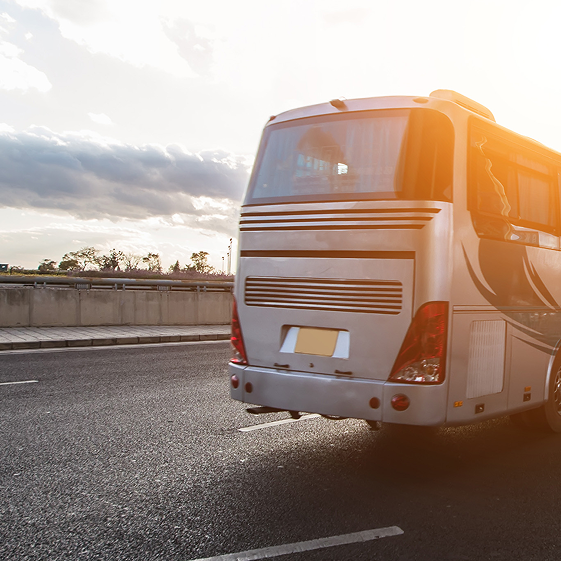
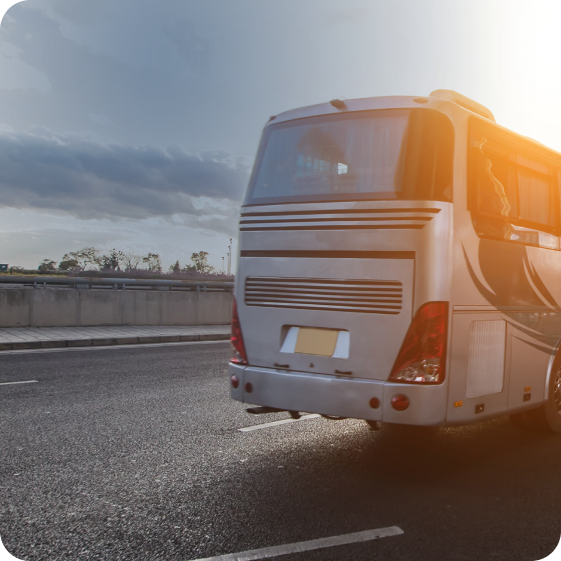
tarif1

diff --git a/src/pages/landing/ui/tarif/Tarif.tsx b/src/pages/landing/ui/tarif/Tarif.tsx
@@ -38,16 +38,13 @@ export function Tarif() {
     },
   ];
 
+  // 2. Выходной күн үчүн маалыматтар
   const weekendData = [
     {
       name: "Комплект (горные лыжи, сноуборд, ботинки, палки)",
       category: [
         { age: "Дети до 14 лет", prices: ["400", "450", "500", "550", "600"] },
         { age: "Взрослые", prices: ["700", "800", "900", "1000", "1200"] },
-        { 
-          age: "Вечерний блок, суббота: прокат + подъемник с 17.00 и 18.00 до 21.00", 
-          prices: ["•", "•", "1500", "1800", "•"] 
-        },
       ],
       isSpecial: false,
     },
@@ -75,10 +72,6 @@ export function Tarif() {
       category: [
         { age: "Дети до 14 лет", prices: ["500", "600", "700", "800", "900"] },
         { age: "Взрослые", prices: ["900", "1000", "1200", "1300", "1500"] },
-        { 
-          age: "Вечерний блок, суббота: прокат + подъемник с 17.00 и 18.00 до 21.00", 
-          prices: ["•", "•", "1700", "2000", "•"] 
-        },
       ],
       isSpecial: false,
     },
@@ -132,23 +125,27 @@ export function Tarif() {
               {item.category.map((cat, catIdx) => (
                 <tr 
                   key={`${idx}-${catIdx}`}
-                  className={`${item.isSpecial ? 'bg-[#89CFF0]' : (catIdx % 2 === 0 ? 'bg-[#F8F9FA]' : 'bg-white')} transition-colors border-b border-white`}
+                  className={`
+                    ${item.isSpecial ? 'bg-[#89CFF0]' : (idx % 2 === 0 ? 'bg-[#F8F9FA]' : 'bg-white')} 
+                    transition-colors 
+                    ${catIdx === item.category.length - 1 ? 'border-b border-white' : ''}
+                  `}
                 >
-                  <td className="p-4 align-middle">
-                    {catIdx === 0 && (
+                  {catIdx === 0 && (
+                    <td className="p-4 align-middle" rowSpan={item.category.length}>
                       <div className="flex items-center gap-4">
                         <div className={`w-12 h-12 rounded-full flex-shrink-0 ${item.isSpecial ? 'bg-white' : 'bg-[#ADD8E6]'}`}></div>
                         <span className={`text-[14px] font-bold leading-tight ${item.isSpecial ? 'text-gray-900' : 'text-gray-700'}`}>
                           {item.name}
                         </span>
                       </div>
-                    )}
-                  </td>
-                  <td className={`p-4 text-[13px] font-semibold leading-tight ${item.isSpecial ? 'text-gray-900' : 'text-gray-600'}`}>
+                    </td>
+                  )}
+                  <td className={`px-4 py-2 text-[13px] font-semibold align-middle ${item.isSpecial ? 'text-gray-900' : 'text-gray-600'}`}>
                     {cat.age}
                   </td>
                   {cat.prices.map((price, pIdx) => (
-                    <td key={pIdx} className={`p-4 text-center text-[16px] font-bold ${item.isSpecial ? 'text-gray-900' : 'text-gray-700'}`}>
+                    <td key={pIdx} className={`px-4 py-2 text-center text-[16px] font-bold align-middle ${item.isSpecial ? 'text-gray-900' : 'text-gray-700'}`}>
                       {price}
                     </td>
                   ))}
@@ -169,7 +166,7 @@ export function Tarif() {
 
       <div className="mb-12">
         <h1 className="text-[#009EE3] text-6xl font-black mb-10 italic uppercase tracking-tighter text-left">
-          Сезон 2022/2023
+          Сезон 2025/2026
         </h1>
         <div className="text-center space-y-3 mb-12">
           <p className="text-[#009EE3] text-[22px] font-bold">
@@ -181,7 +178,8 @@ export function Tarif() {
         </div>
       </div>
 
-      <h2 className="text-[#009EE3] text-3xl font-black mb-8 uppercase italic text-left">Стоимость проката в будний день</h2>
+      {/* Таблицалар */}
+      <h2 className="text-[#009EE3] text-[28px] font-extrabold mb-6 uppercase tracking-tight text-left">СТОИМОСТЬ ПРОКАТА В БУДНИЙ ДЕНЬ</h2>
       {renderTable(weekdayData)}
 
       <h2 className="text-[#009EE3] text-3xl font-black mb-8 uppercase italic text-left">Стоимость проката в выходной день</h2>
@@ -190,89 +188,113 @@ export function Tarif() {
       <h2 className="text-[#009EE3] text-3xl font-black mb-8 uppercase italic text-left">Стоимость проката в праздничные дни</h2>
       {renderTable(holidayData)}
 
-      <h2 className="text-[#009EE3] text-3xl font-black mb-8 uppercase italic text-left">Стоимость проката ватрушек (тюбинг).</h2>
-      <div className="overflow-x-auto mb-20">
-        <table className="w-full text-left border-collapse">
-          <thead>
-            <tr className="text-gray-400 text-[12px] uppercase border-b border-gray-100">
-              <th className="py-4 font-normal w-[30%]">Наименование</th>
-              <th className="py-4 font-normal w-[20%]">Дни</th>
-              <th className="py-4 font-normal text-center">1 час</th>
-              <th className="py-4 font-normal text-center">2 часа</th>
-              <th className="py-4 font-normal text-center">3 часа</th>
-              <th className="py-4 font-normal text-center">день</th>
-            </tr>
-          </thead>
-          <tbody>
-            {tubingData.map((row, idx) => (
-              <tr key={idx} className="bg-[#F8F9FA] border-b border-white">
-                <td className="p-4 align-middle">
-                  {idx === 0 && (
-                    <div className="flex items-center gap-4">
-                      <div className="w-12 h-12 rounded-full bg-[#ADD8E6]"></div>
-                      <span className="text-[14px] font-bold text-gray-700">Ватрушка (тюбинг)</span>
-                    </div>
-                  )}
-                </td>
-                <td className="p-4 text-[13px] font-semibold text-gray-600">{row.day}</td>
-                {row.prices.map((price, pIdx) => (
-                  <td key={pIdx} className="p-4 text-center text-[16px] font-bold text-gray-700">{price}</td>
-                ))}
-              </tr>
-            ))}
-          </tbody>
-        </table>
-      </div>
+      {/* Тюбинг таблицасы */}
+   <h2 className="text-[#009EE3] text-3xl font-black mb-8 uppercase italic text-left">
+  Стоимость проката ватрушек (тюбинг).
+</h2>
+<div className="overflow-x-auto mb-20">
+  <table className="w-full text-left border-collapse">
+    <thead>
+      <tr className="text-gray-400 text-[11px] uppercase border-b border-gray-100">
+        <th className="py-4 px-4 font-normal w-[30%]">Наименование</th>
+        <th className="py-4 px-4 font-normal w-[20%]">Дни</th>
+        <th className="py-4 font-normal text-center">1 час</th>
+        <th className="py-4 font-normal text-center">2 часа</th>
+        <th className="py-4 font-normal text-center">3 часа</th>
+        <th className="py-4 font-normal text-center">день</th>
+      </tr>
+    </thead>
+    <tbody className="bg-[#F8F9FA]">
+      {tubingData.map((row, idx) => (
+        <tr key={idx}>
+          {idx === 0 && (
+            <td 
+              className="p-4 align-middle border-b border-white" 
+              rowSpan={tubingData.length}
+            >
+              <div className="flex items-center gap-4">
+                <div className="w-12 h-12 rounded-full bg-[#ADD8E6] flex-shrink-0"></div>
+                <span className="text-[14px] font-bold text-gray-700 leading-tight">
+                  Ватрушка (тюбинг)
+                </span>
+              </div>
+            </td>
+          )}
+          
+          <td className="px-4 py-2 text-[13px] font-semibold text-gray-600 align-middle border-b border-white">
+            {row.day}
+          </td>
+          
+          {row.prices.map((price, pIdx) => (
+            <td 
+              key={pIdx} 
+              className="px-4 py-2 text-center text-[16px] font-bold text-gray-700 align-middle border-b border-white"
+            >
+              {price}
+            </td>
+          ))}
+        </tr>
+      ))}
+    </tbody>
+  </table>
+</div>
 
-      <h2 className="text-[#009EE3] text-3xl font-black mb-8 uppercase italic text-left">График работы горнолыжных трасс и службы проката снаряжения</h2>
-      <div className="overflow-x-auto mb-20">
-        <table className="w-full text-left border-collapse">
-          <thead>
-            <tr className="text-gray-400 text-[11px] uppercase border-b border-gray-100">
-              <th className="py-4 font-normal w-[25%]">День недели</th>
-              <th className="py-4 font-normal text-center leading-tight">График работы трасс без освещения</th>
-              <th className="py-4 font-normal text-center leading-tight">График работы трасс с освещением №1 и №2</th>
-              <th className="py-4 font-normal text-center leading-tight">График работы учебного склона</th>
-              <th className="py-4 font-normal text-center leading-tight">График работы службы проката и сервиса снаряжения</th>
-            </tr>
-          </thead>
-          <tbody>
-            {scheduleData.map((row, idx) => (
-              <tr key={idx} className="bg-[#F8F9FA] border-b border-white">
-                <td className="p-4 align-middle">
-                  <div className="flex items-center gap-4">
-                    <div className="w-10 h-10 rounded-full bg-[#ADD8E6]"></div>
-                    <span className="text-[14px] font-bold text-gray-700">{row.day}</span>
-                  </div>
-                </td>
-                {row.times.map((time, tIdx) => (
-                  <td key={tIdx} className="p-4 text-center text-[14px] font-semibold text-gray-600">{time}</td>
-                ))}
-              </tr>
-            ))}
-          </tbody>
-        </table>
-      </div>
+<h2 className="text-[#009EE3] text-3xl font-black mb-8 uppercase italic text-left">
+  График работы горнолыжных трасс и службы проката снаряжения
+</h2>
+<div className="overflow-x-auto mb-20">
+  <table className="w-full text-left border-collapse">
+    <thead>
+      <tr className="text-gray-400 text-[11px] uppercase border-b border-gray-100">
+        <th className="py-4 font-normal w-[25%] px-4">День недели</th>
+        <th className="py-4 font-normal text-center leading-tight">График работы трасс без освещения</th>
+        <th className="py-4 font-normal text-center leading-tight">График работы трасс с освещением №1 и №2</th>
+        <th className="py-4 font-normal text-center leading-tight">График работы учебного склона</th>
+        <th className="py-4 font-normal text-center leading-tight">График работы службы проката и сервиса снаряжения</th>
+      </tr>
+    </thead>
+    <tbody>
+      {scheduleData.map((row, idx) => (
+        <tr 
+          key={idx} 
+          className={`${idx % 2 === 0 ? 'bg-[#F8F9FA]' : 'bg-white'} border-b border-white`}
+        >
+          <td className="p-4 align-middle">
+            <div className="flex items-center gap-4">
+              <div className="w-10 h-10 rounded-full bg-[#ADD8E6] flex-shrink-0"></div>
+              <span className="text-[14px] font-bold text-gray-700">{row.day}</span>
+            </div>
+          </td>
+          {row.times.map((time, tIdx) => (
+            <td 
+              key={tIdx} 
+              className="p-4 text-center text-[14px] font-semibold text-gray-600 align-middle"
+            >
+              {time}
+            </td>
+          ))}
+        </tr>
+      ))}
+    </tbody>
+  </table>
+</div>
 
       <div className="mt-10 mb-20">
-        <h2 className="text-[#009EE3] text-4xl font-black mb-10 italic uppercase">Акции</h2>
+        <h2 className="text-[#009EE3] text-4xl font-black mb-10 italic uppercase text-left">Акции</h2>
         <div className="grid grid-cols-1 md:grid-cols-2 gap-8">
-          
           <div className="relative rounded-[2.5rem] overflow-hidden h-[450px] shadow-lg group">
             <img src={evro} alt="Евробус" className="absolute inset-0 w-full h-full object-cover" />
-            <div className="relative p-12 flex flex-col h-full text-white bg-black/10">
+            <div className="relative p-12 flex flex-col h-full text-white bg-black/10 text-left">
               <h3 className="text-5xl font-black mb-4">Евробус - экспресс</h3>
               <p className="text-2xl font-bold uppercase">Челябинск-Куса</p>
               <p className="text-xl mt-1 opacity-90 italic">за 3 часа</p>
-              <button className="mt-auto bg-[#009EE3] text-white py-4 px-12 rounded-2xl self-start font-bold text-lg">
-                Заказать
-              </button>
+              <button className="mt-auto bg-[#009EE3] text-white py-4 px-12 rounded-2xl self-start font-bold text-lg">Заказать</button>
             </div>
           </div>
 
           <div className="relative rounded-[2.5rem] overflow-hidden h-[450px] shadow-lg group">
             <img src={sne} alt="Снежные будни" className="absolute inset-0 w-full h-full object-cover" />
-            <div className="relative p-12 flex flex-col h-full text-white bg-black/5">
+            <div className="relative p-12 flex flex-col h-full text-white bg-black/5 text-left">
               <h3 className="text-5xl font-black mb-4">Снежные будни</h3>
               <p className="text-lg font-black uppercase">Прокат снаряжения +</p>
               <p className="text-lg font-black uppercase mb-4">Кресельный подъемник</p>
@@ -283,10 +305,8 @@ export function Tarif() {
                 <span className="text-7xl font-black ml-6">4</span>
                 <span className="text-2xl font-bold">часа</span>
               </div>
-              <p className="text-[12px] opacity-80 mb-6 font-bold">*За исключением праздничных дней</p>
-              <button className="mt-auto bg-[#009EE3] text-white py-4 px-12 rounded-2xl self-start font-bold text-lg">
-                Заказать
-              </button>
+              <p className="text-[12px] opacity-90 mb-6 font-bold">*За исключением праздничных дней</p>
+              <button className="mt-auto bg-[#009EE3] text-white py-4 px-12 rounded-2xl self-start font-bold text-lg">Заказать</button>
             </div>
           </div>
         </div>
@@ -303,7 +323,6 @@ export function Tarif() {
           </a>
         </div>
       </div>
-
     </div>
   );
 }
